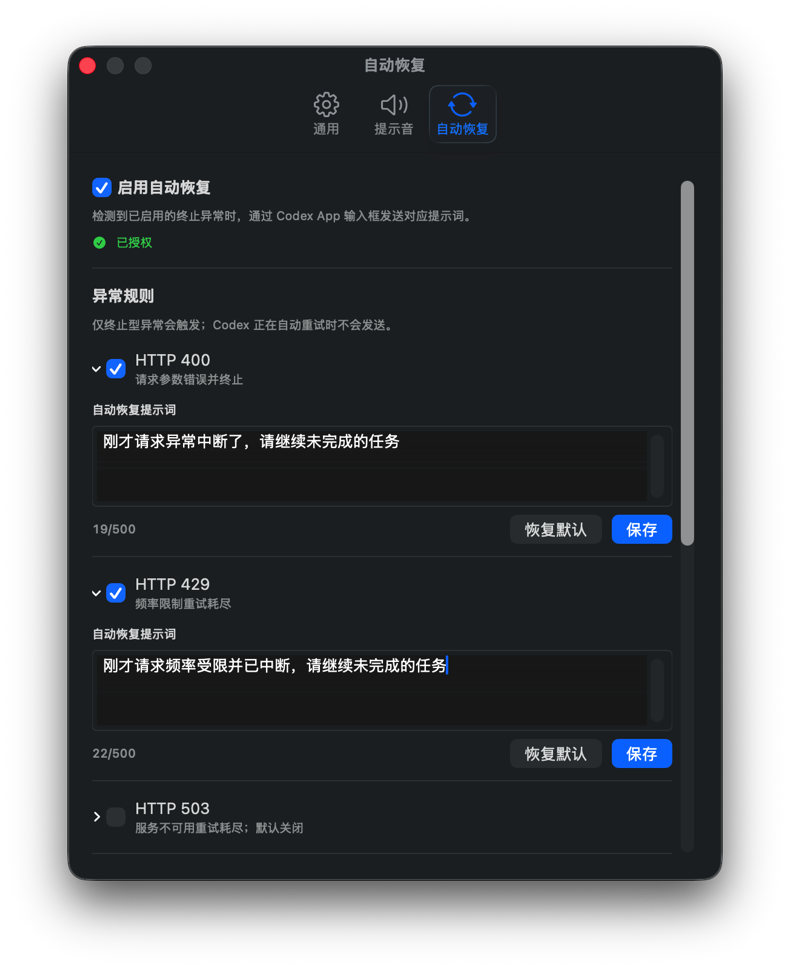
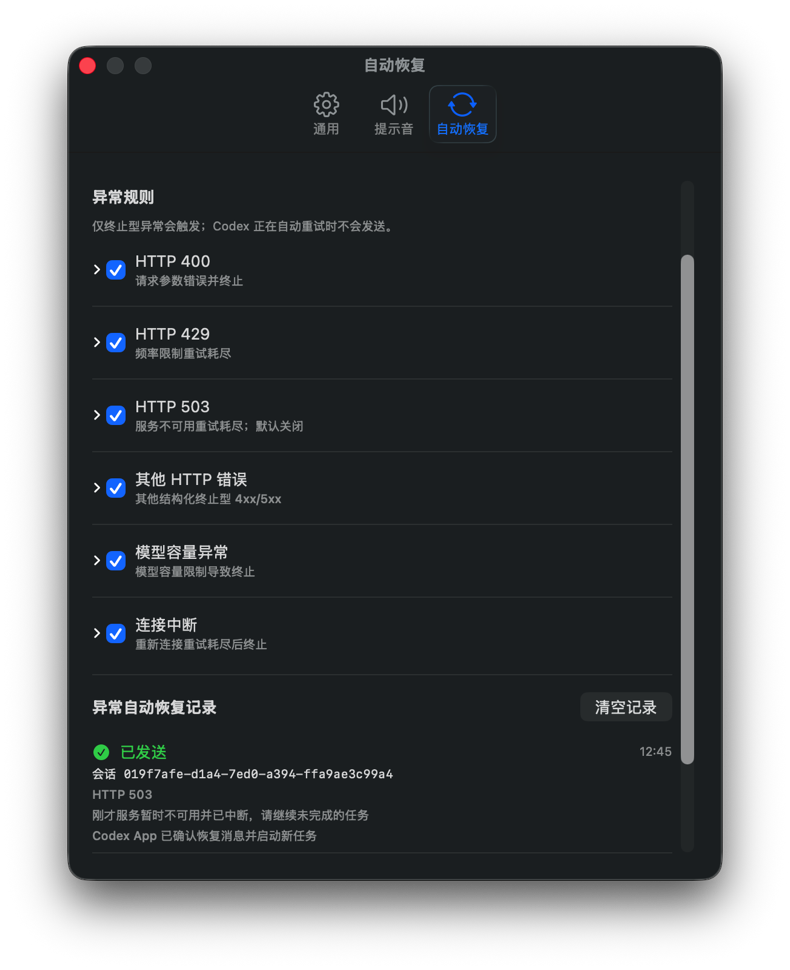
docs(readme): show successful auto recovery

diff --git a/README-EN.md b/README-EN.md
@@ -70,9 +70,9 @@ If no tasks appear or the footer reports a data-source problem, see
 | :---: | :---: |
 | ![ThreadBeacon Token usage details](docs/assets/readme/en/threadbeacon-token-details.png) | ![ThreadBeacon General Settings](docs/assets/readme/en/threadbeacon-settings.png) |
 
-| Notification and custom sounds | Auto-recovery rules and prompts |
+| Notification and custom sounds | Auto-recovery rules and successful delivery |
 | :---: | :---: |
-| ![ThreadBeacon notification and custom sounds](docs/assets/readme/en/threadbeacon-sounds.png) | ![ThreadBeacon auto-recovery rules and prompts](docs/assets/readme/en/threadbeacon-auto-recovery.png) |
+| ![ThreadBeacon notification and custom sounds](docs/assets/readme/en/threadbeacon-sounds.png) | ![ThreadBeacon auto-recovery rules and successful delivery](docs/assets/readme/en/threadbeacon-auto-recovery.png) |
 
 ### Update Check
 